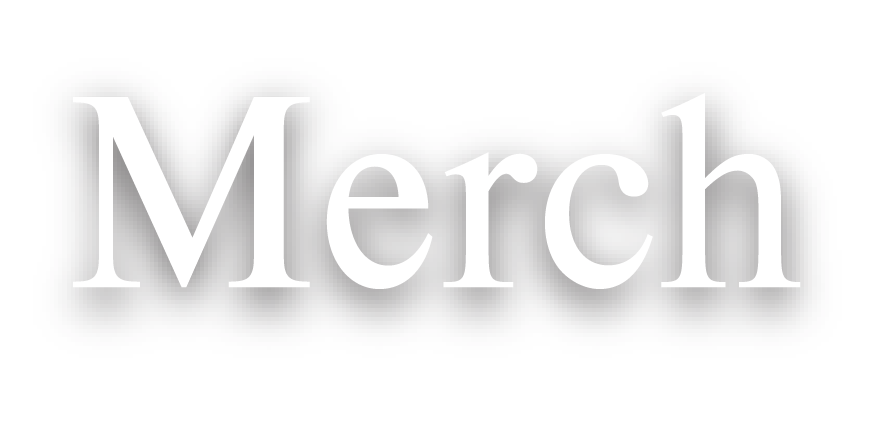
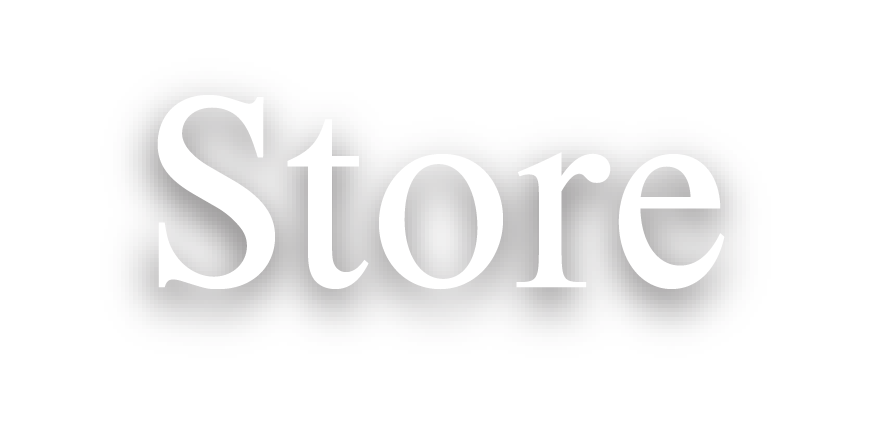
Updated Store n added copy
added new copy of home page and changed merch to store

Changed region(s): [[0.062, 0.2353, 0.93, 0.7353]]

diff --git a/index.html b/index.html
@@ -24,7 +24,7 @@
                 <nav id="menu">
                     <li><a href="index.html">Home</a></li>
                     <li><a href="portfolio.html">Portfolio</a></li>
-                    <li><a href="merch.html">Merch</a></li>
+                    <li><a href="store.html">Store</a></li>
                 </nav>
             </div>
         </div>
@@ -44,24 +44,51 @@
     <div class="landing-container">
         <img src="./ArtAssets/landing graphic-12.png" alt="">
         <div id="landing-container-empty"></div>
-        <p>
+        <div class="landing-container-words">
+            <p>
             Meaningful purpose driven brand solutions to encapsulate the essence of your brand, its values, and its unique story.
-        </p>
+            </p>
+            <p> 
+                • Visual Identity Development
+                <br><br>
+                • Promotional Assets <br> (Logos, cards, apparel, templates, etc.)
+                <br><br>
+                • Website design
+            </p>
+        </div>
     </div>
     <div class="landing-container">
         <img src="./ArtAssets/landing graphic-13.png" alt="">
         <div id="landing-container-empty"></div>
-        <p>
-            Versatile illustrations that blend commercial appeal and artistic beauty, 
-            suitable for promotional materials and wall decor alike.       
-        </p>
+        <div class="landing-container-words">
+            <p>
+                Versatile illustrations that blend commercial appeal and artistic beauty, 
+                suitable for promotional materials and wall decor alike.       
+            </p>
+            <p> 
+                • Traditional Painting & Drawing
+                <br><br>
+                • Vector Art
+                <br><br>
+                • Concept Art
+            </p>
+        </div>
     </div>
     <div class="landing-container">
         <img src="./ArtAssets/landing graphic-11.png" alt="">
         <div id="landing-container-empty"></div>
-        <p>
-            Engage your audience with inspiring animations and dynamic motion graphics.
-        </p>
+        <div class="landing-container-words">
+            <p>
+                Engage your audience with inspiring animations and dynamic motion designs.
+            </p>
+            <p> 
+                • Traditional 2D Animation
+                <br><br>
+                • Stylized & Realistic 3D Animation
+                <br><br>
+                • 2D & 3D Motion Design
+            </p>
+        </div>
     </div>
 </section>
 

diff --git a/store.html b/store.html
@@ -4,7 +4,7 @@
     <meta charset="UTF-8">
     <meta http-equiv="X-UA-Compatible" content="IE=edge">
     <meta name="viewport" content="width=device-width, initial-scale=1.0">
-    <title>Fenczik Studios Merch</title>
+    <title>Fenczik Studios Store</title>
     <link rel="stylesheet" href="FenczikStudios.css">
 
 </head>
@@ -24,7 +24,7 @@
             <nav id="menu">
                 <li><a href="index.html">Home</a></li>
                 <li><a href="portfolio.html">Portfolio</a></li>
-                <li><a href="merch.html">Merch</a></li>
+                <li><a href="store.html">Store</a></li>
             </nav>
         </div>
     </div>

diff --git a/FenczikStudios.css b/FenczikStudios.css
@@ -327,14 +327,16 @@ nav a:hover {
   .landing-container {
     flex-direction: column;
     width: 100%;
-    height: 300px;
+    height: 350px;
+    margin-bottom: 120px;
   }
 }
 @media (min-width: 429px) and (max-width: 844px) {
   .landing-container {
     flex-direction: column;
-    height: 300px;
     width: 80%;
+    height: 350px;
+    margin-bottom: 120px;
   }
 }
 .landing-container img {

diff --git a/portfolio.html b/portfolio.html
@@ -25,7 +25,7 @@
                 <nav id="menu">
                     <li><a href="index.html">Home</a></li>
                     <li><a href="portfolio.html">Portfolio</a></li>
-                    <li><a href="merch.html">Merch</a></li>
+                    <li><a href="store.html">Store</a></li>
                 </nav>
             </div>
         </div>

diff --git a/FenczikStudios.js b/FenczikStudios.js
@@ -70,7 +70,7 @@ continuePortfolio.addEventListener('click', function () {
 
 continueMerch.addEventListener('click', function () {
 
-  window.location.href = 'merch.html';
+  window.location.href = 'store.html';
 
 });
 
